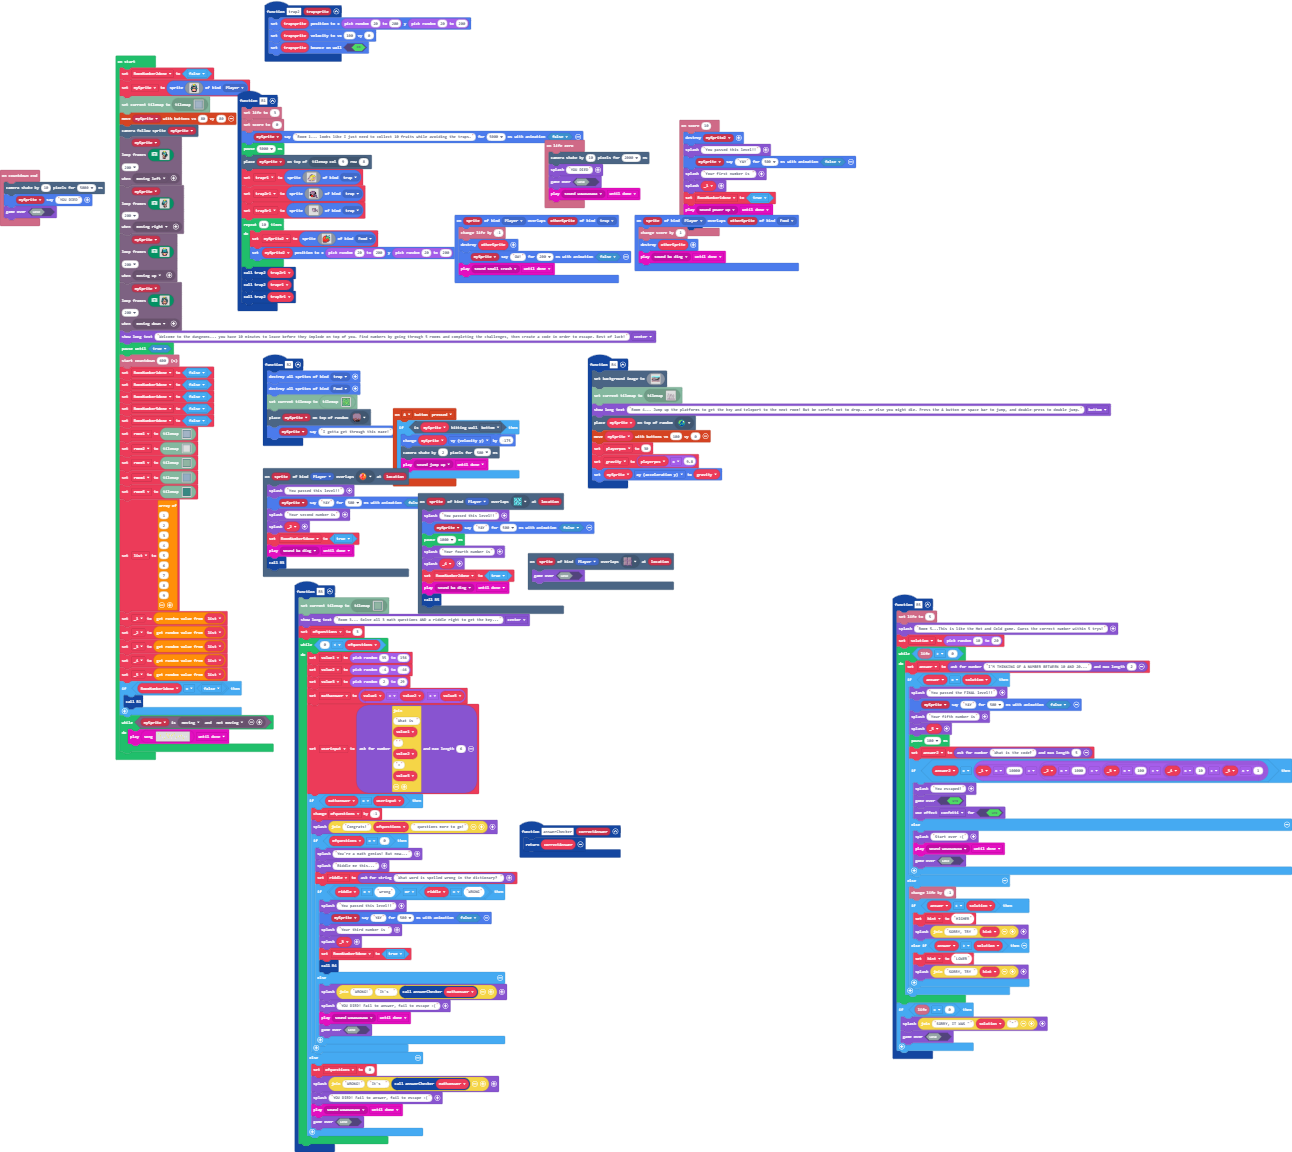
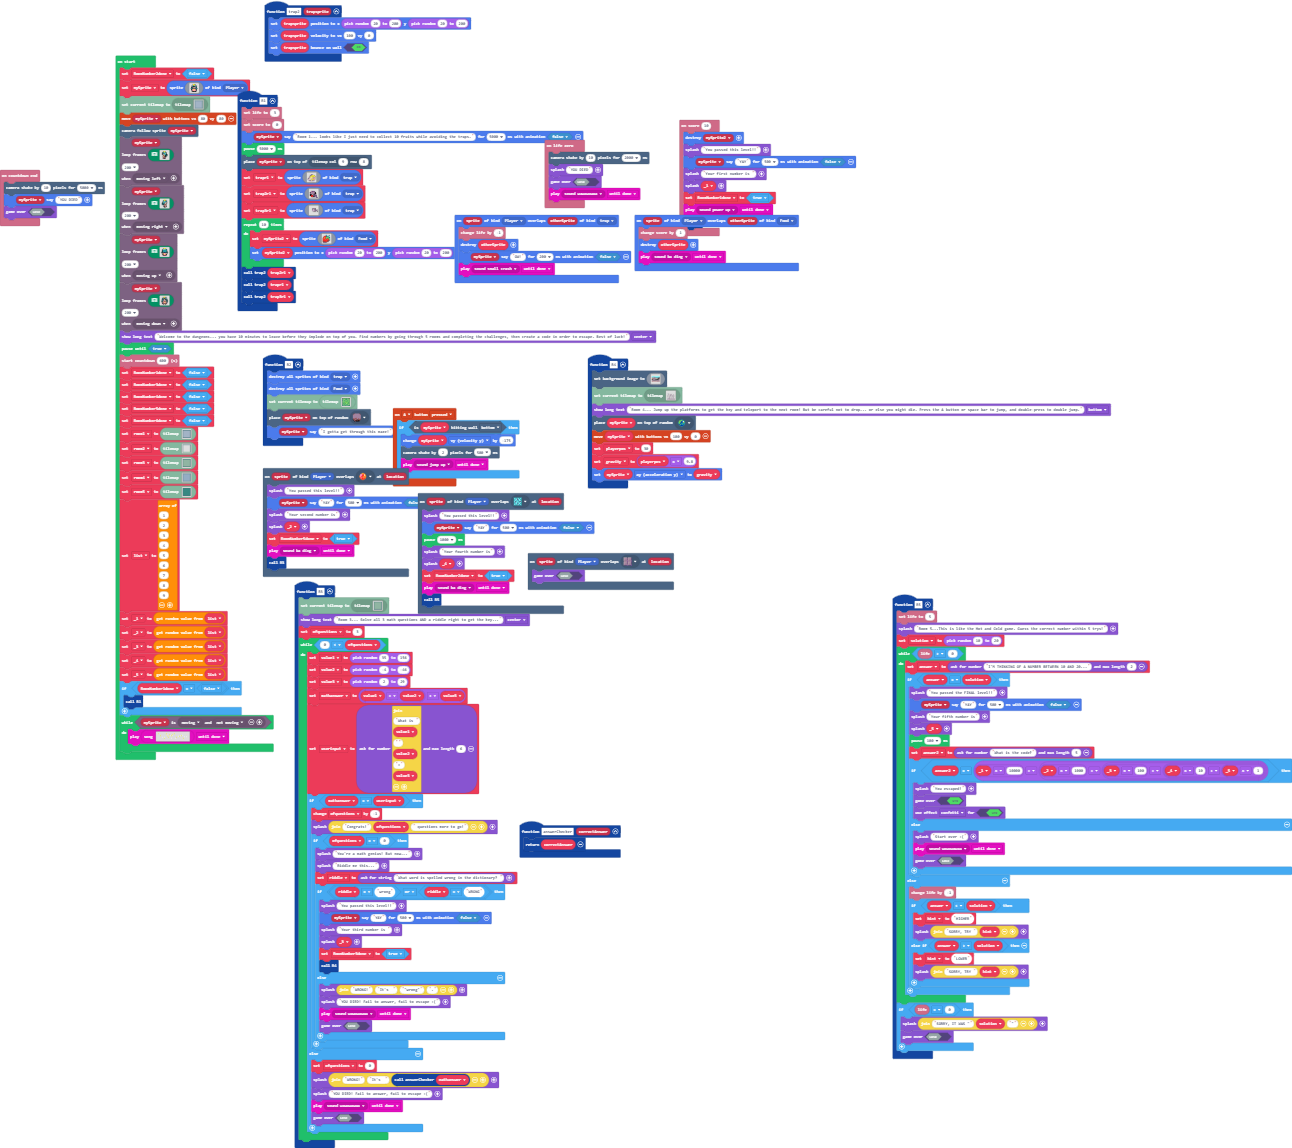
riddle correction

Changed region(s): [[0.0, 0.061, 0.8669, 0.9756], [0.6811, 0.5183, 1.0, 0.9451]]

diff --git a/main.ts b/main.ts
@@ -174,7 +174,7 @@ function R3 () {
                     RoomNumber3done = true
                     R4()
                 } else {
-                    game.splash("WRONG!" + "It's  " + answerChecker(mathanswer))
+                    game.splash("WRONG!" + "It's  " + "\"wrong\"" + ".")
                     game.splash("YOU DIED! Fail to answer, fail to escape :(")
                     music.play(music.melodyPlayable(music.wawawawaa), music.PlaybackMode.UntilDone)
                     game.gameOver(false)
